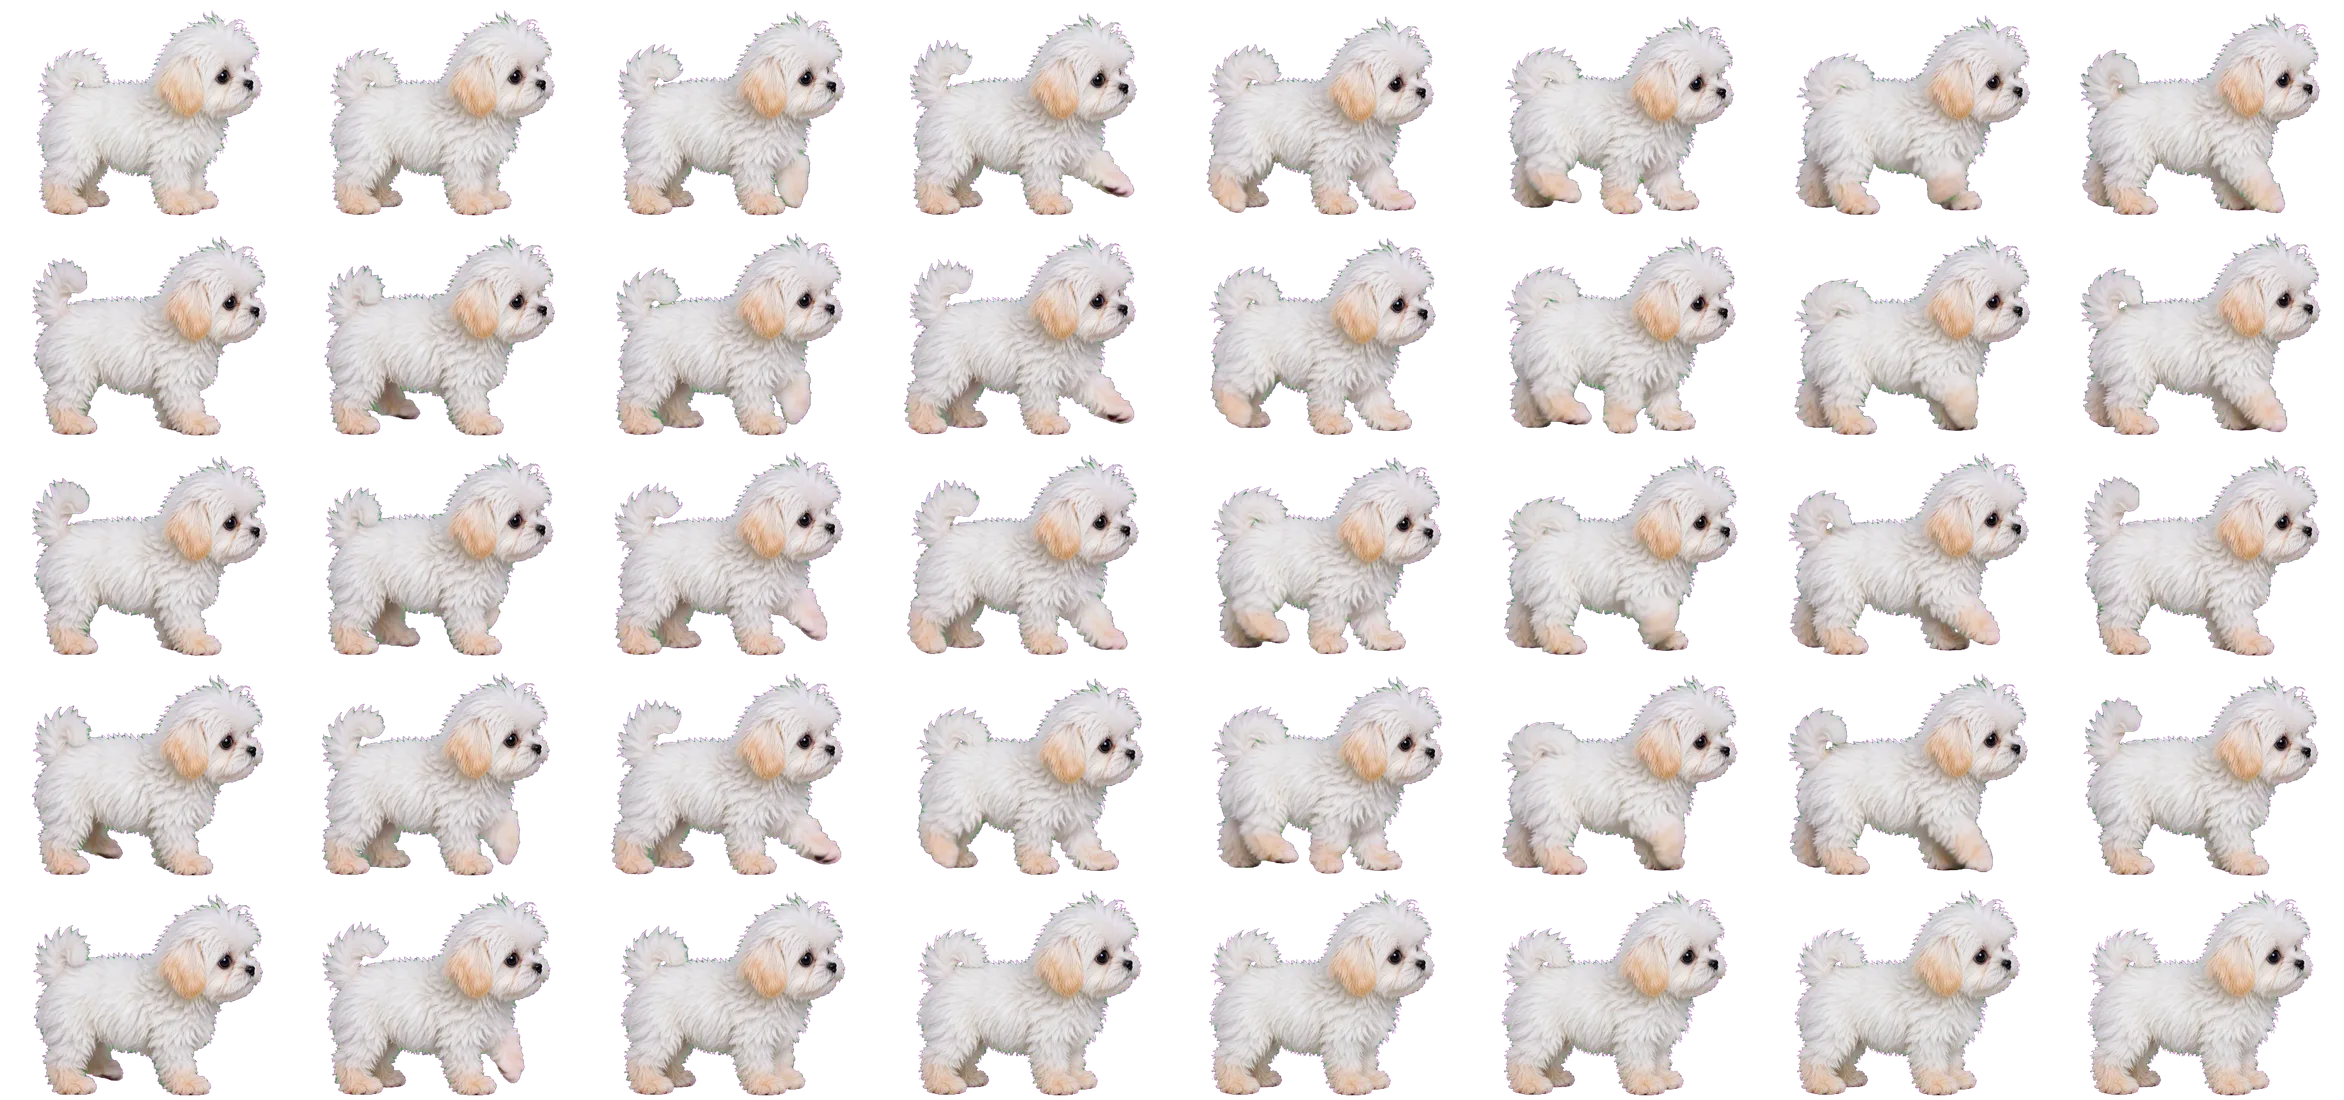
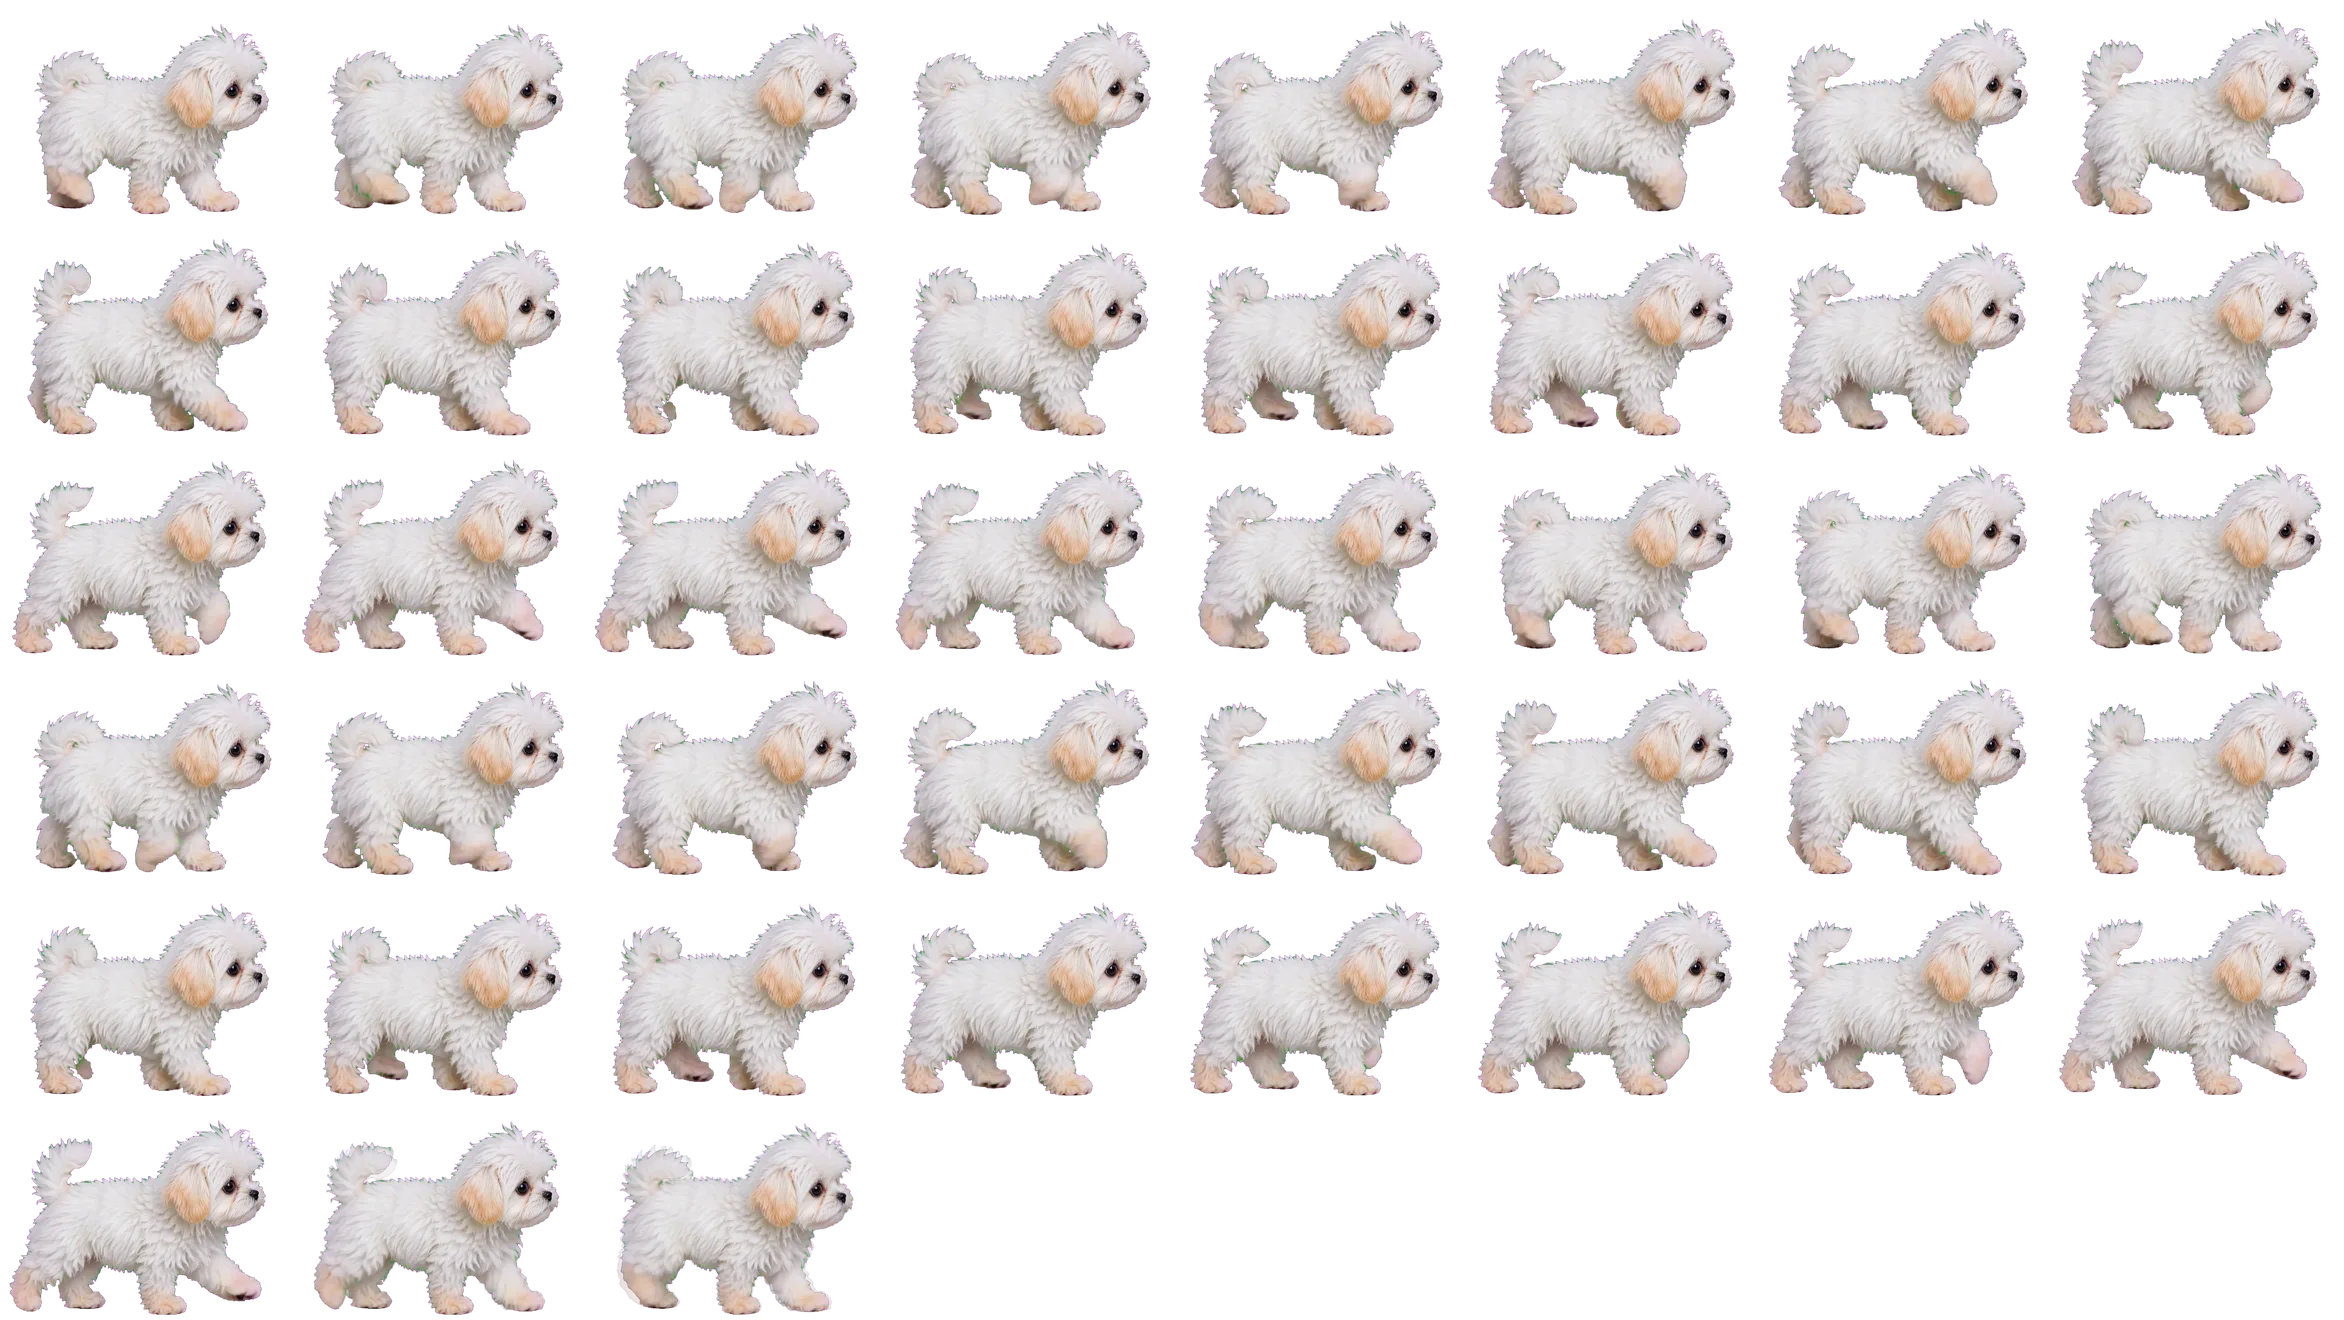
The Maltese walks and runs like a real dog: a four-beat walk and a trot in diagonal pairs (it bounded with both front legs together), each loop one stride cycle of legs in motion only (a still stretch in the old walk made it pause and slide), with its pace matched to the ground each stride covers

diff --git a/mobile/src/components/garden/critters/GardenCritters.tsx b/mobile/src/components/garden/critters/GardenCritters.tsx
@@ -40,12 +40,15 @@ const ART: Record<CritterId, { source: number; frames?: Frames; w: number; h: nu
   // The puppy walks, gallops after the bluebird and sits down where it caught up in its outfit's
   // paintings (puppyLooks.ts; bare when it has nothing on), all sharing one crop, ground and scale.
   puppy: { source: PUPPY_LOOKS.bare.source, w: 418, h: 300, frames: PUPPY_LOOKS.bare },
-  // The Maltese, the puppy's tiny friend: an oil-motion walk (one 5 s loop, 40 frames kept) and a
-  // walk-to-sit (20 frames), cut with one crop (190,30,920,690) so they lie on the same cells.
+  // The Maltese, the puppy's tiny friend: an oil-motion walk (a four-beat walk, one stride cycle of
+  // 43 frames, 45 units of ground) and a walk-to-sit (20 frames), cut with one crop (190,30,920,690)
+  // so they lie on the same cells. Only frames where its legs are moving are kept: a still stretch
+  // in a loop made it slide.
   maltese: { source: require('@/assets/garden/critters/maltese-walk.webp'), w: 293, h: 220,
-    frames: { columns: 8, count: 40, ground: 216, loop: 78.8, rest: { source: require('@/assets/garden/critters/maltese-sit.webp'), count: 20, rise: 1 },
-      // Its run (one 5 s loop, 32 frames kept), same cells: chasing the puppy or dashing off in a game.
-      run: { source: require('@/assets/garden/critters/maltese-run.webp'), columns: 8, count: 32, loop: 178.4 } } },
+    frames: { columns: 8, count: 43, ground: 216, loop: 45, rest: { source: require('@/assets/garden/critters/maltese-sit.webp'), count: 20, rise: 1 },
+      // Its run, same cells: a trot in diagonal pairs (one cycle, 26 frames, 36 units), chasing the
+      // puppy or dashing off in a game.
+      run: { source: require('@/assets/garden/critters/maltese-run.webp'), columns: 8, count: 26, loop: 36 } } },
   // The Silktail Fox spirit, generated from the Garden spirits design sheet: it gallops (several
   // strides of a running clip) shedding petals, then slows, stops and sits down to rest (a clip
   // from that same running pose), and gets up again (back to its standing frame, 24).

diff --git a/mobile/src/components/garden/critters/critterVisits.ts b/mobile/src/components/garden/critters/critterVisits.ts
@@ -23,8 +23,8 @@ export type CritterSpec = {
 };
 // The Maltese's drawn size and walking pace (world units), from its painted walk.
 // (Its sheet's cells are 293 px wide; 62 units makes it stand about 42 units tall, some six tenths of
-// the puppy. Its painted walk covers 78.8 units a loop: 30 units a second steps it quickly, a small dog.)
-export const MALTESE_SIZE = 62, MALTESE_SPEED = 30;
+// the puppy. Its painted walk covers 45 units a stride cycle in 1.8 s: 27 units a second is its own pace.)
+export const MALTESE_SIZE = 62, MALTESE_SPEED = 27;
 export const CRITTERS: Readonly<Record<CritterId, CritterSpec>> = {
   butterfly: { id: 'butterfly', kind: 'flyer', size: 60, speed: 46, altitude: [36, 90] },
   bluebird: { id: 'bluebird', kind: 'flyer', size: 92, speed: 140, altitude: [120, 200] },
